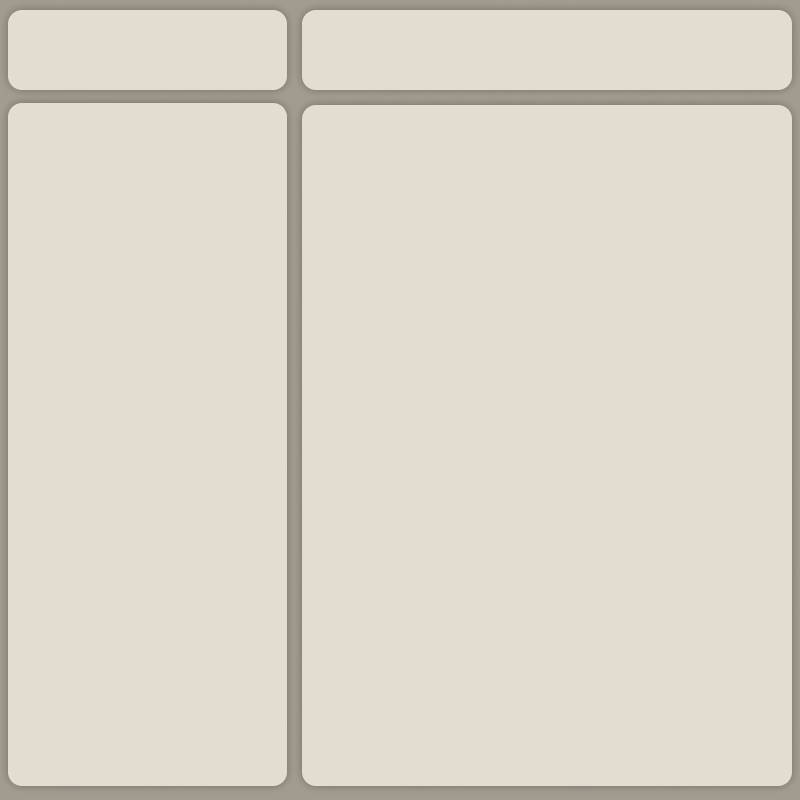
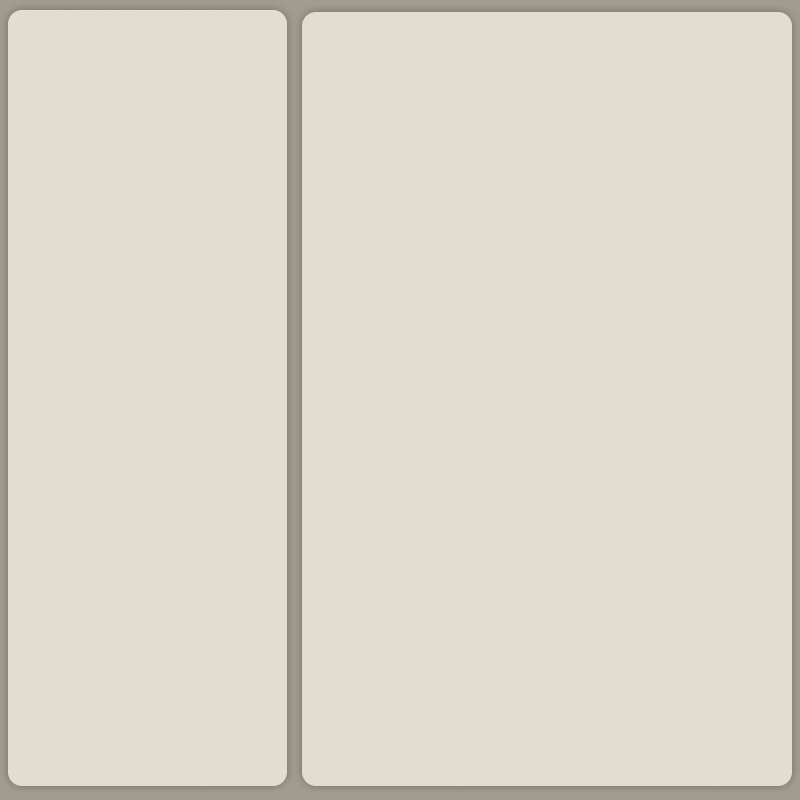
Panel Contactos

Changed region(s): [[0.0, 0.0938, 1.0, 0.1562]]

diff --git a/MVC/src/main/java/vista/FramePrincipal.java b/MVC/src/main/java/vista/FramePrincipal.java
@@ -6,6 +6,7 @@ package vista;
 
 import Objetos.Chat;
 import Objetos.Mensaje;
+import Objetos.Usuario;
 import controlador.Controlador;
 import java.awt.Component;
 import java.awt.Dimension;
@@ -26,6 +27,7 @@ import observadores.ObservadorChat;
 public class FramePrincipal extends javax.swing.JFrame implements ObservadorChat{
     
     private Controlador controlador;
+    private Usuario usuarioLogueado;
     
     private javax.swing.JPanel contenedorMensajes;
     private javax.swing.JPanel contenedorContactos;
@@ -45,8 +47,10 @@ public class FramePrincipal extends javax.swing.JFrame implements ObservadorChat
     @Override
     public void actualizar(Modelo modelo){
         
+        this.usuarioLogueado = modelo.getUsuarioLocal();
         actualizarListaChats(modelo.getChat());
-        System.out.println("a");
+        this.revalidate();
+        this.repaint();
         
     }
     private void configurarContactos() {
@@ -67,14 +71,25 @@ public class FramePrincipal extends javax.swing.JFrame implements ObservadorChat
             pnlContactos.setHorizontalScrollBarPolicy(JScrollPane.HORIZONTAL_SCROLLBAR_NEVER);
         }
     
+
+    
         public void actualizarListaChats(List<Chat> listaChats) {
                 contenedorContactos.removeAll(); 
                 
-                if(listaChats==null || listaChats.isEmpty())
+                System.out.println(usuarioLogueado.toString());
+                if(listaChats==null || listaChats.isEmpty()){
+                
+                    System.out.println("no hay chats iniciales");
                     return;
                 
+                }
+                
                 for (Chat chat : listaChats) {
-                    PanelChatsDisponibles itemChat = new PanelChatsDisponibles(chat);
+                    
+                    if(chat.getUsuarios().getFirst().getId() != usuarioLogueado.getId() && chat.getUsuarios().getLast().getId() != usuarioLogueado.getId())
+                        continue;
+                    
+                    PanelChatsDisponibles itemChat = new PanelChatsDisponibles(chat, usuarioLogueado);
 
                     itemChat.setMaximumSize(new Dimension(Integer.MAX_VALUE, 70)); // Altura fija aprox
                     itemChat.setAlignmentX(Component.LEFT_ALIGNMENT);
@@ -113,9 +128,9 @@ public class FramePrincipal extends javax.swing.JFrame implements ObservadorChat
     // <editor-fold defaultstate="collapsed" desc="Generated Code">//GEN-BEGIN:initComponents
     private void initComponents() {
 
-        jButton1 = new javax.swing.JButton();
         pnlContactos = new javax.swing.JScrollPane();
         pnlChat = new javax.swing.JScrollPane();
+        jButton1 = new javax.swing.JButton();
         lblAgregar = new javax.swing.JLabel();
         panelEnviarMensaje = new vista.panelEnviarMensaje();
         lblFondo = new javax.swing.JLabel();
@@ -123,6 +138,7 @@ public class FramePrincipal extends javax.swing.JFrame implements ObservadorChat
         setDefaultCloseOperation(javax.swing.WindowConstants.EXIT_ON_CLOSE);
         setMinimumSize(new java.awt.Dimension(800, 800));
         getContentPane().setLayout(new org.netbeans.lib.awtextra.AbsoluteLayout());
+        getContentPane().add(pnlContactos, new org.netbeans.lib.awtextra.AbsoluteConstraints(20, 20, 260, 670));
 
         jButton1.setText("jButton1");
         jButton1.addActionListener(new java.awt.event.ActionListener() {
@@ -130,9 +146,9 @@ public class FramePrincipal extends javax.swing.JFrame implements ObservadorChat
                 jButton1ActionPerformed(evt);
             }
         });
-        getContentPane().add(jButton1, new org.netbeans.lib.awtextra.AbsoluteConstraints(290, 90, -1, -1));
-        getContentPane().add(pnlContactos, new org.netbeans.lib.awtextra.AbsoluteConstraints(20, 120, 260, 570));
-        getContentPane().add(pnlChat, new org.netbeans.lib.awtextra.AbsoluteConstraints(310, 122, 470, 540));
+        pnlChat.setViewportView(jButton1);
+
+        getContentPane().add(pnlChat, new org.netbeans.lib.awtextra.AbsoluteConstraints(310, 22, 470, 640));
 
         lblAgregar.setIcon(new javax.swing.ImageIcon(getClass().getResource("/Imagenes/BotonAgregar.png"))); // NOI18N
         lblAgregar.addMouseListener(new java.awt.event.MouseAdapter() {

diff --git a/Red/src/main/java/servidor/ManejadorCliente.java b/Red/src/main/java/servidor/ManejadorCliente.java
@@ -12,6 +12,8 @@ import servidor.EstadoServidor;
 import utilidades.LocalDateTimeAdapter;
 import DTOs.UsuarioDTO;
 import Eventos.EventoEnviarUsuarios;
+import Eventos.EventoSincronizacion;
+import Objetos.Chat;
 import Objetos.Usuario;
 import java.util.ArrayList;
 import java.util.List;
@@ -56,50 +58,41 @@ public class ManejadorCliente implements Runnable {
     }
     
     private void sincronizarEstadoActual() {
-            try {
-                Gson gson = new GsonBuilder()
-                        .registerTypeAdapter(LocalDateTime.class, new LocalDateTimeAdapter())
-                        .create();
+        try {
+            Gson gson = new GsonBuilder()
+                    .registerTypeAdapter(LocalDateTime.class, new LocalDateTimeAdapter())
+                    .create();
 
-                EstadoServidor estado = EstadoServidor.getInstancia();
+            EstadoServidor estado = EstadoServidor.getInstancia();
 
-                System.out.println("Sincronizando cliente...");
-
-                // -----------------------------------------------------------
-                // 1. SINCRONIZAR USUARIOS
-                // -----------------------------------------------------------
-                List<Usuario> usuariosEnMemoria = estado.getUsuarios();
-                List<UsuarioDTO> usuariosParaEnviar = new ArrayList<>();
-
-                // Convertimos de Entidad (Dominio) a DTO (Transporte)
-                synchronized (usuariosEnMemoria) { // Sincronizamos para evitar errores si alguien se registra justo ahora
-                    for (Usuario u : usuariosEnMemoria) {
-                        usuariosParaEnviar.add(new UsuarioDTO(u.getId(), u.getUsuario(), u.getContrasenia()));
-                    }
+            // 1. SINCRONIZAR USUARIOS (Esto ya lo tienes y funciona)
+            List<Usuario> usuariosEnMemoria = estado.getUsuarios();
+            List<UsuarioDTO> usuariosParaEnviar = new ArrayList<>();
+            synchronized (usuariosEnMemoria) {
+                for (Usuario u : usuariosEnMemoria) {
+                    usuariosParaEnviar.add(new UsuarioDTO(u.getId(), u.getUsuario(), u.getContrasenia()));
                 }
-
-                // Creamos el evento y lo enviamos (JSON) directamente a ESTE cliente
-                EventoEnviarUsuarios eventoUsuarios = new EventoEnviarUsuarios(usuariosParaEnviar);
-                String jsonUsuarios = gson.toJson(eventoUsuarios);
-                this.escritor.println(jsonUsuarios);
-
-                System.out.println(" > Enviados " + usuariosParaEnviar.size() + " usuarios.");
-
-                // -----------------------------------------------------------
-                // 2. SINCRONIZAR CHATS (Simulación con EventoCrearChatNuevo)
-                // -----------------------------------------------------------
-                // Nota: Como vimos antes, esto solo envía la existencia del chat.
-                // Idealmente deberías crear un EventoChatCompleto para enviar mensajes viejos.
-                /* for (Chat chat : estado.getChats()) {
-                     // Tu lógica de envío de chats aquí...
-                }
-                */
-
-            } catch (Exception e) {
-                System.err.println("Error al sincronizar cliente: " + e.getMessage());
-                e.printStackTrace();
             }
+            EventoEnviarUsuarios eventoUsuarios = new EventoEnviarUsuarios(usuariosParaEnviar);
+            this.escritor.println(gson.toJson(eventoUsuarios));
+
+            // 2. SINCRONIZAR CHATS (Esto es lo que falta)
+            // Obtenemos la lista real de chats del servidor
+            List<Chat> chatsDelServidor = estado.getChats();
+
+            // Empaquetamos la lista en el evento que creaste
+            EventoSincronizacion eventoSync = new EventoSincronizacion(chatsDelServidor);
+
+            // Lo enviamos al cliente
+            String jsonChats = gson.toJson(eventoSync);
+            this.escritor.println(jsonChats);
+
+            System.out.println(" > Sincronizados " + chatsDelServidor.size() + " chats al cliente.");
+
+        } catch (Exception e) {
+            e.printStackTrace();
         }
+    }
         
     private void cerrarConexion() {
         try {

diff --git a/MVC/src/main/java/vista/PanelChatsDisponibles.java b/MVC/src/main/java/vista/PanelChatsDisponibles.java
@@ -5,6 +5,7 @@
 package vista;
 
 import Objetos.Chat;
+import Objetos.Usuario;
 
 /**
  *
@@ -13,45 +14,41 @@ import Objetos.Chat;
 public class PanelChatsDisponibles extends javax.swing.JPanel {
 
     private Chat chat;
+    private Usuario uLogueado;
     
-    public PanelChatsDisponibles(Chat chat) {
+    public PanelChatsDisponibles(Chat chat, Usuario uLogueado) {
         this.chat = chat;
+        this.uLogueado = uLogueado;
         initComponents();
         configurarTexto();
         
     }
 
+
     public void configurarTexto(){
     
-        String mensaje = chat.getMensajes().getLast().getMensaje();
         
-        if (mensaje == null) {
-            mensaje = "Manda el primer mensaje!";
-        }
-        if (mensaje.length() > 15) {
-            mensaje = mensaje.substring(0, 15) + "...";
-        }
-        lblUltimoMensaje.setText(mensaje);
+        if(chat.getUsuarios().getFirst().getId() == uLogueado.getId())
+            lblNombreUsuario.setText(chat.getUsuarios().get(1).getUsuario());
+        if(chat.getUsuarios().getFirst().getId() != uLogueado.getId())
+            lblNombreUsuario.setText(chat.getUsuarios().get(0).getUsuario());
         
         
-        lblNombreUsuario.setText("a");
     }
 
     @SuppressWarnings("unchecked")
     // <editor-fold defaultstate="collapsed" desc="Generated Code">//GEN-BEGIN:initComponents
     private void initComponents() {
 
-        lblUltimoMensaje = new javax.swing.JLabel();
         lblNombreUsuario = new javax.swing.JLabel();
         lblIcono = new javax.swing.JLabel();
 
         setLayout(new org.netbeans.lib.awtextra.AbsoluteLayout());
 
-        lblUltimoMensaje.setText("MensajeDefault");
-        add(lblUltimoMensaje, new org.netbeans.lib.awtextra.AbsoluteConstraints(70, 60, -1, -1));
-
+        lblNombreUsuario.setFont(new java.awt.Font("Nirmala Text", 1, 18)); // NOI18N
+        lblNombreUsuario.setHorizontalAlignment(javax.swing.SwingConstants.CENTER);
         lblNombreUsuario.setText("Usuario Default");
-        add(lblNombreUsuario, new org.netbeans.lib.awtextra.AbsoluteConstraints(70, 20, -1, -1));
+        add(lblNombreUsuario, new org.netbeans.lib.awtextra.AbsoluteConstraints(70, 16, 170, 70));
 
         lblIcono.setIcon(new javax.swing.ImageIcon(getClass().getResource("/Imagenes/IconoDefault.png"))); // NOI18N
         add(lblIcono, new org.netbeans.lib.awtextra.AbsoluteConstraints(10, 20, -1, -1));
@@ -61,6 +58,5 @@ public class PanelChatsDisponibles extends javax.swing.JPanel {
     // Variables declaration - do not modify//GEN-BEGIN:variables
     private javax.swing.JLabel lblIcono;
     private javax.swing.JLabel lblNombreUsuario;
-    private javax.swing.JLabel lblUltimoMensaje;
     // End of variables declaration//GEN-END:variables
 }

diff --git a/MVC/src/main/java/modelo/Modelo.java b/MVC/src/main/java/modelo/Modelo.java
@@ -80,10 +80,7 @@ public class Modelo implements INegocioListener, ObservadoLogin, ObservadoChat {
     public void notificarChat(){
         
         System.out.println(negocio.memoriaChats.toString());
-        
-        if (negocio.memoriaChats != null) {
-                recibirChat(negocio.memoriaChats);
-            }
+
         for (ObservadorChat obs : chat) {
             obs.actualizar(this);
         }
@@ -99,6 +96,7 @@ public class Modelo implements INegocioListener, ObservadoLogin, ObservadoChat {
                 ));
             }
 
+            
             // 2. IMPORTANTE: Notificar a la Vista (FrameLogIn) para que reaccione
             notificarLogin(dto);
     }
@@ -109,9 +107,9 @@ public class Modelo implements INegocioListener, ObservadoLogin, ObservadoChat {
     
     @Override
     public void recibirChat(List<Chat> chats) {
-        if (notificarVistaChats != null) {
-                    notificarVistaChats.accept(chats);
-                }
+        this.chats = chats; 
+
+        notificarChat();
     }
 
     

diff --git a/Negocio/src/main/java/itson/negocio/Negocio.java b/Negocio/src/main/java/itson/negocio/Negocio.java
@@ -64,9 +64,15 @@ public class Negocio {
                 this.memoriaChats.add(chatNuevo);
                 notificarMensaje();
             }
+            else if (evento instanceof EventoSincronizacion eventoSync) {
+                this.memoriaChats = eventoSync.getChats();
+                System.out.println("Negocio: Chats sincronizados (" + memoriaChats.size() + ")");
+                notificarMensaje(); 
+            }
             else if (evento instanceof EventoEnviarUsuarios eventoEnviarUsuarios) { 
                  // ... lógica existente de usuarios ...
                  List<UsuarioDTO> usuarios = eventoEnviarUsuarios.getUsuarios();
+                 System.out.println(usuarios.toString());
                  List<Usuario> usuariosAG = new ArrayList<>();
                  for(UsuarioDTO u : usuarios){
                      Usuario uN = new Usuario(u.getId(), u.getNombre(), u.getPassword());

diff --git a/Red/src/main/java/receptor/Receptor.java b/Red/src/main/java/receptor/Receptor.java
@@ -50,7 +50,9 @@ public class Receptor implements Runnable {
                         // Lista de usuarios (para contactos)
                         EventoEnviarUsuarios evento = gson.fromJson(jsonObject, EventoEnviarUsuarios.class);
                         bus.publicar(evento);
-                        
+                    } else if (jsonObject.has("chats")) { // "chats" es el nombre de la lista dentro de EventoSincronizacion
+                        EventoSincronizacion evento = gson.fromJson(jsonObject, EventoSincronizacion.class);
+                        bus.publicar(evento);
                     } 
                     // --- NUEVOS EVENTOS DE LOGIN ---
                     else if (jsonObject.has("loginPedidoDTO")) {
